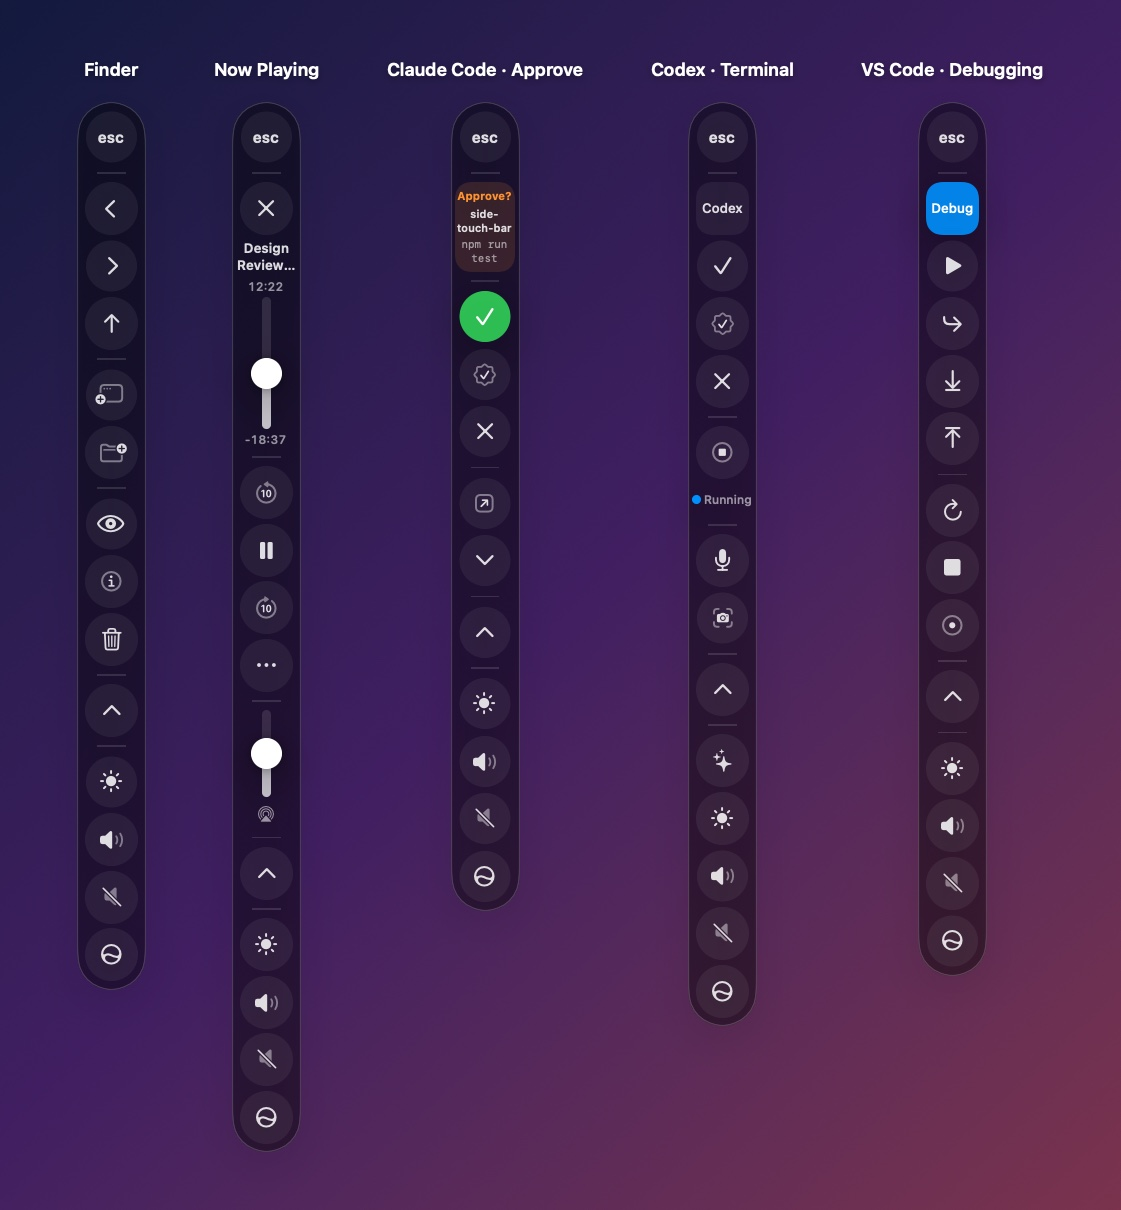
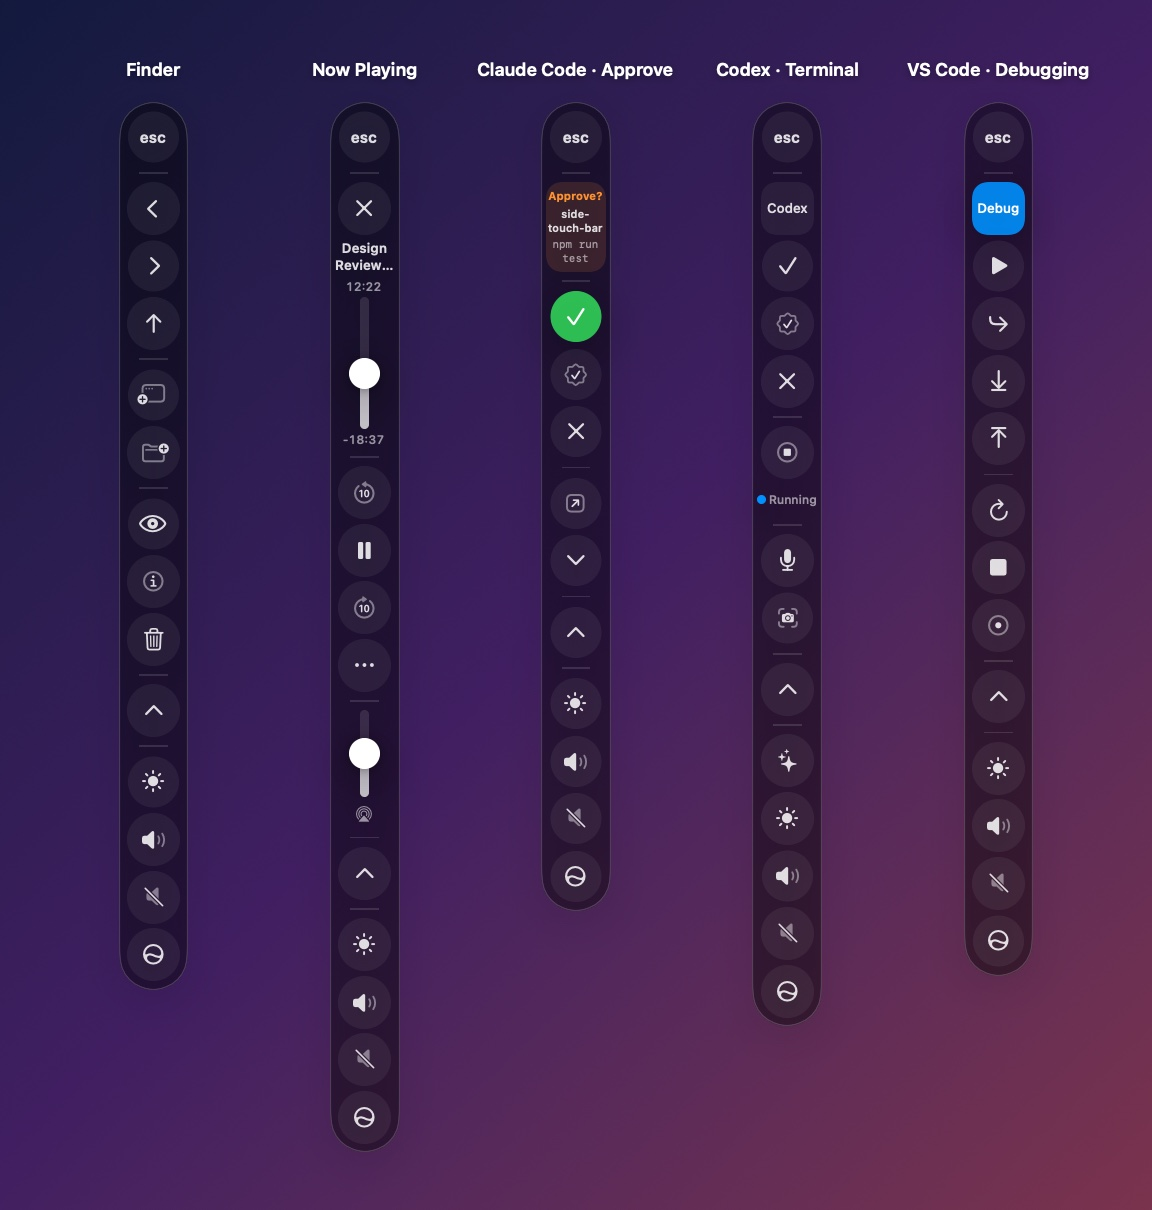
Space the preview bars evenly
Each preview column now has the same width, so the gap between bars no longer depends on the caption length.

diff --git a/Sources/SideTouchBar/App/PreviewRenderer.swift b/Sources/SideTouchBar/App/PreviewRenderer.swift
@@ -79,18 +79,22 @@ private struct PreviewSheet: View {
     @Environment(\.colorScheme) private var scheme
 
     var body: some View {
-        HStack(alignment: .top, spacing: 56) {
+        // Equal columns, so the bars are evenly spaced whatever the caption length.
+        HStack(alignment: .top, spacing: 0) {
             ForEach(Array(PreviewRenderer.states().enumerated()), id: \.offset) { _, entry in
                 VStack(spacing: 18) {
                     Text(entry.0)
                         .font(.system(size: 15, weight: .semibold))
                         .foregroundStyle(.white)
                         .shadow(color: .black.opacity(0.35), radius: 3, y: 1)
+                        .lineLimit(1)
+                        .minimumScaleFactor(0.8)
                     PreviewBar(state: entry.1)
                 }
+                .frame(width: 176)
             }
         }
-        .padding(.horizontal, 64)
+        .padding(.horizontal, 40)
         .padding(.vertical, 48)
         .background(
             LinearGradient(

diff --git a/README.md b/README.md
@@ -16,7 +16,7 @@ Built for the touch-screen Macs to come — and fully usable with a mouse or tra
 
 <picture>
   <source media="(prefers-color-scheme: dark)" srcset="docs/images/preview-dark.jpg">
-  <img src="docs/images/preview-light.jpg" alt="Side Touch Bar showing Finder buttons, playback controls, a Claude Code approval card, Codex in a terminal and the VS Code debugger" width="760">
+  <img src="docs/images/preview-light.jpg" alt="Side Touch Bar showing Finder buttons, playback controls, a Claude Code approval card, Codex in a terminal and the VS Code debugger" width="780">
 </picture>
 
 <sub>Rendered from the app's own SwiftUI views; the Liquid Glass material is approximated in these images.</sub>

diff --git a/README.zh-CN.md b/README.zh-CN.md
@@ -16,7 +16,7 @@
 
 <picture>
   <source media="(prefers-color-scheme: dark)" srcset="docs/images/preview-dark.zh.jpg">
-  <img src="docs/images/preview-light.zh.jpg" alt="Side Touch Bar 显示访达按钮、播放控件、Claude Code 确认卡片、终端里的 Codex 和 VS Code 调试" width="680">
+  <img src="docs/images/preview-light.zh.jpg" alt="Side Touch Bar 显示访达按钮、播放控件、Claude Code 确认卡片、终端里的 Codex 和 VS Code 调试" width="780">
 </picture>
 
 <sub>图片由应用自身的 SwiftUI 界面渲染，液态玻璃材质在图中为近似效果。</sub>
